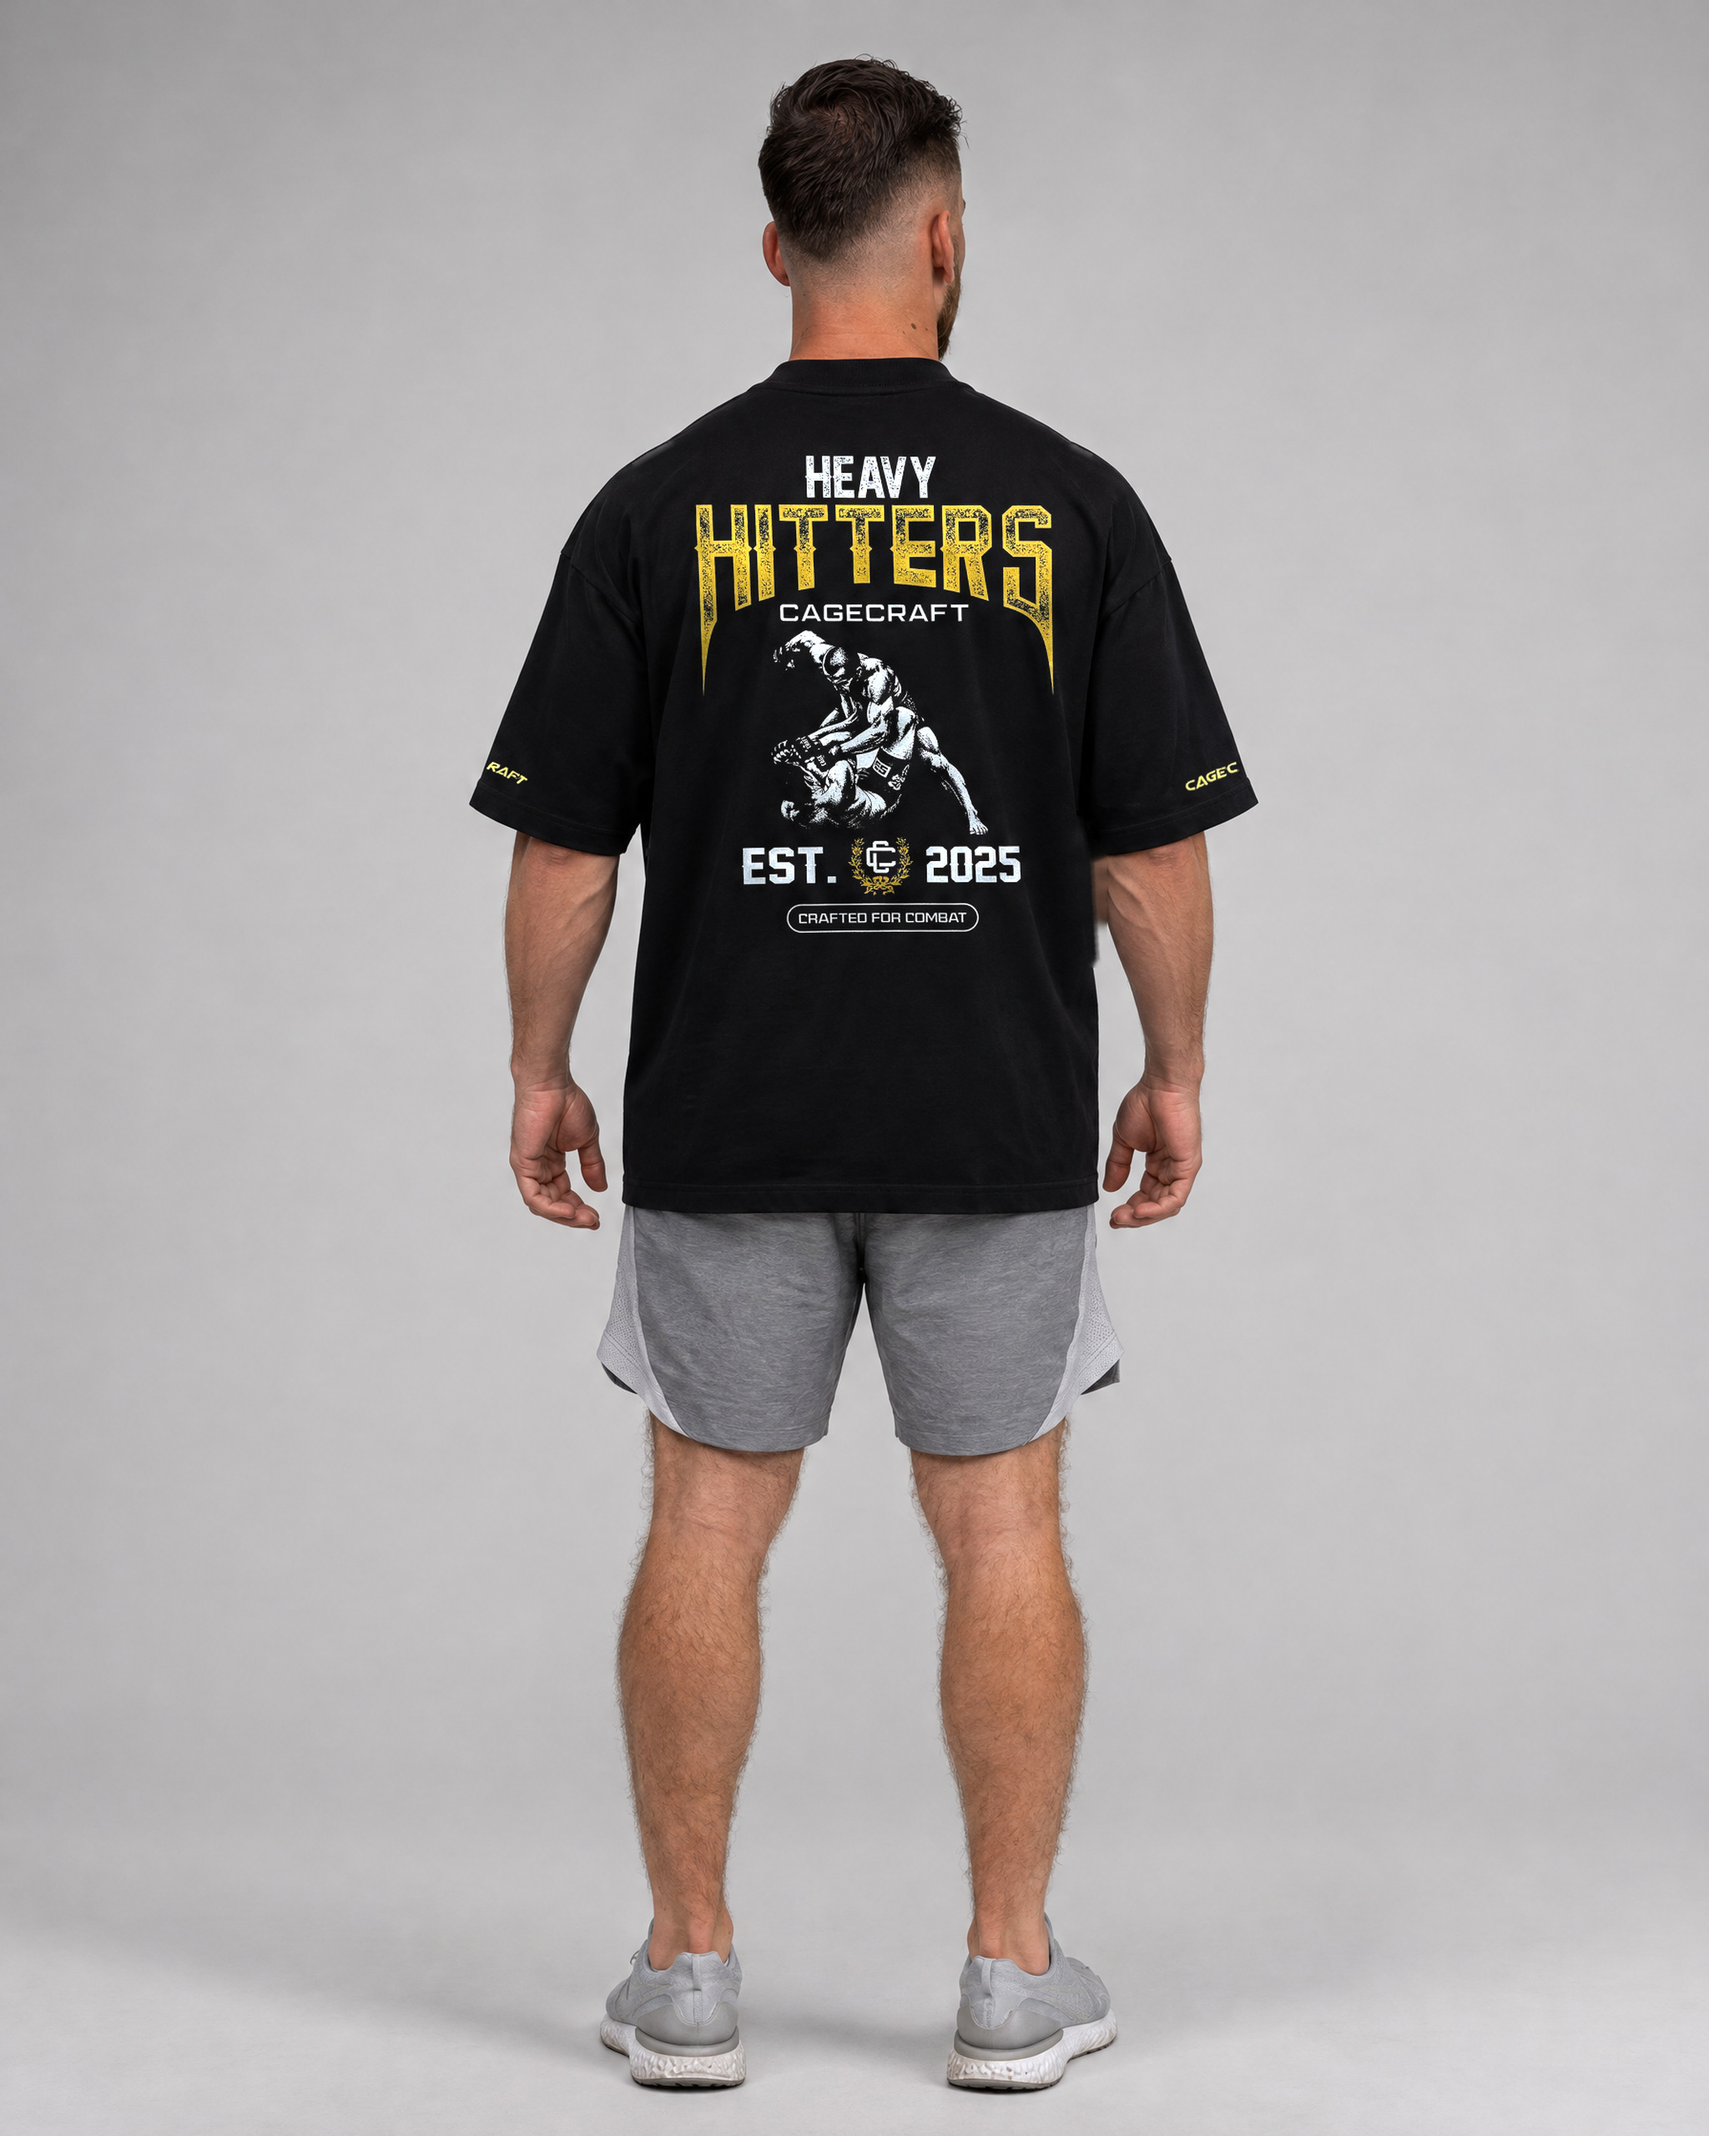
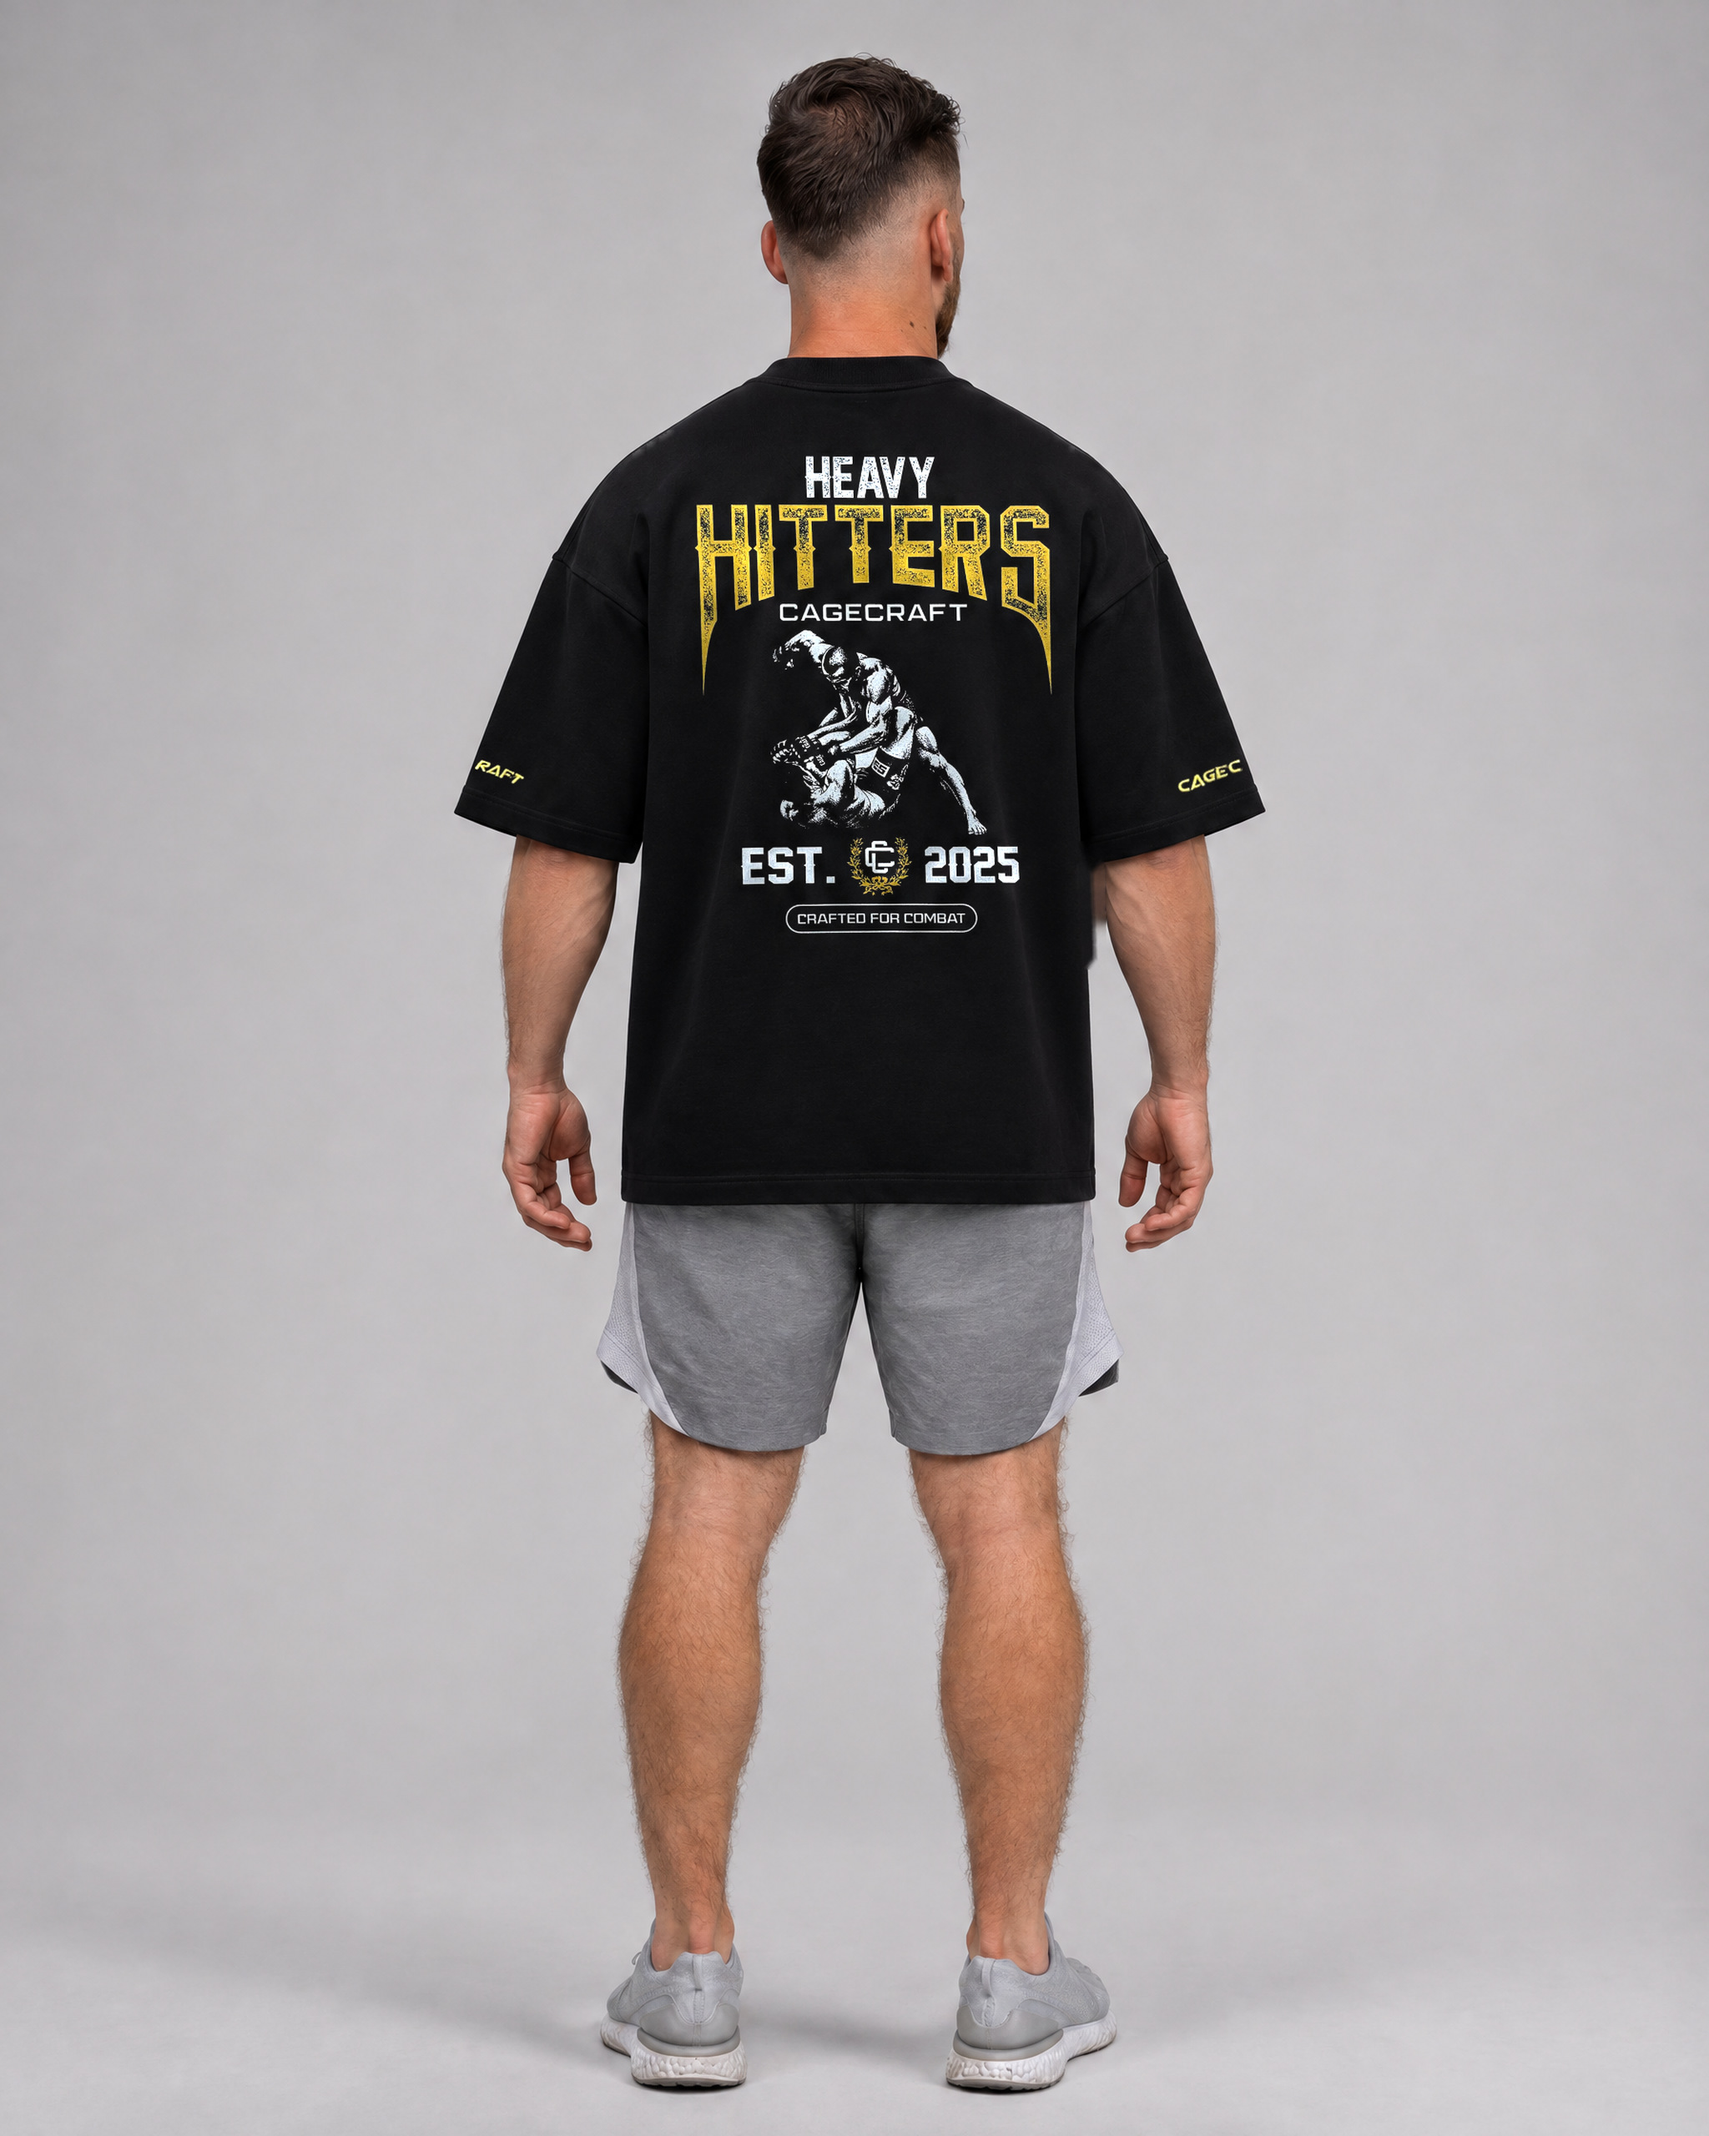
Heavy Hitters: boxier fit on front shots, fix arm on back shot
Claude-Session: https://claude.ai/code/session_01DwmoEpJ7m2nwLwYrrS6zRm

diff --git a/model-shots/README.md b/model-shots/README.md
@@ -19,7 +19,10 @@ so no print, embroidery or lettering comes from the AI model.
    embroidery crop is placed parallel to the cuff. CAGECRAFT wraps around the outer fold of the
    sleeve, so a front or back view only shows part of the word: front shows `RAFT` (image-left) and
    `CAGE` (image-right); back shows `RAFT` and `CAGEC`, matching the flat lays.
-5. **Check.** Compare against the flat lays at 1:1 and fix any edge, scale or crop errors.
+5. **Fit fixes.** If a shot comes back too narrow or long, edit it in Higgsfield with the generated
+   image as reference plus the Apex back shot for fit: wider body, dropped shoulders, hem at hip.
+   Then re-run steps 3–4.
+6. **Check.** Compare against the flat lays at 1:1 and fix any edge, scale or crop errors.
 
 ## Re-running for a new tee
 
@@ -27,11 +30,11 @@ Configs in `<tee>/config/` use paths relative to a working folder containing `so
 (the Shopify flat lays) and `raw/` (the Higgsfield outputs named `g0.png`…).
 
 ```bash
-python3 tools/comp.py heavy-hitters/config/print-g0.json
+python3 tools/comp.py heavy-hitters/config/print-f.json
 ```
 
 ```bash
-python3 tools/sleeve.py heavy-hitters/config/sleeve-g0.json
+python3 tools/sleeve.py heavy-hitters/config/sleeve-f.json
 ```
 
 Needs `opencv-python-headless`, `numpy`, `Pillow`.
